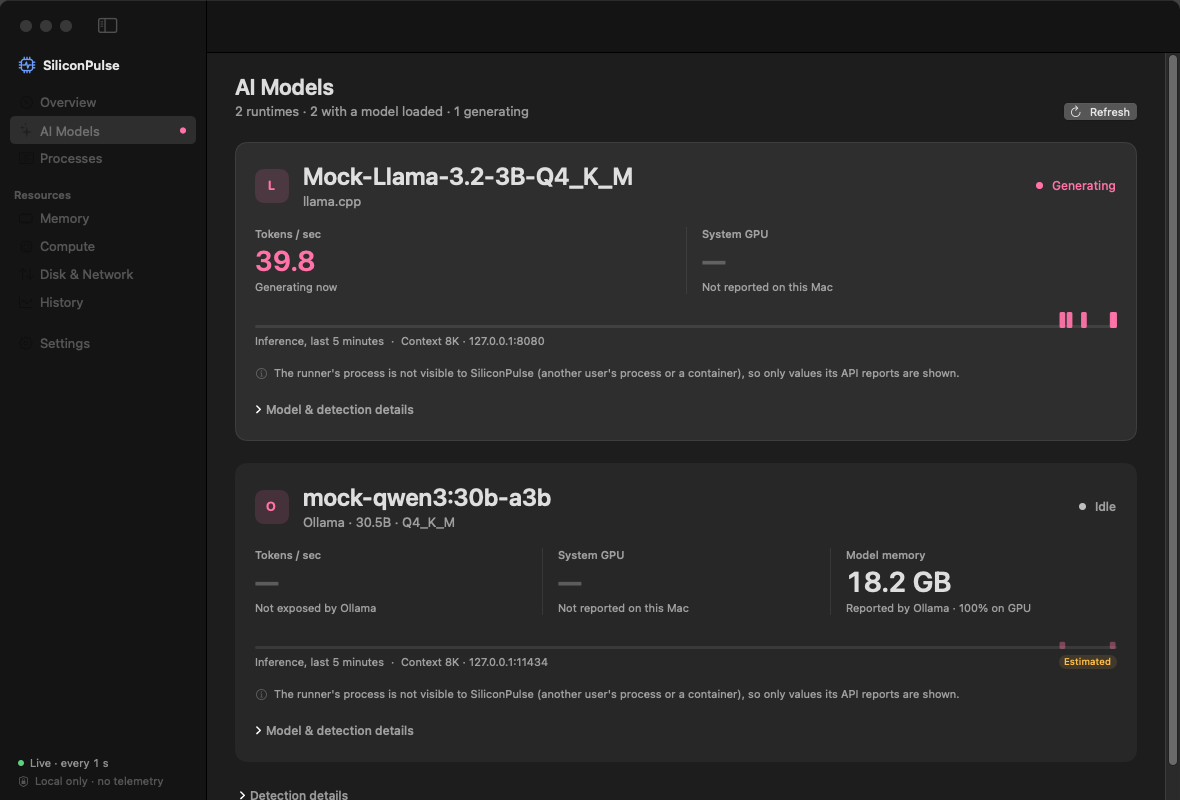
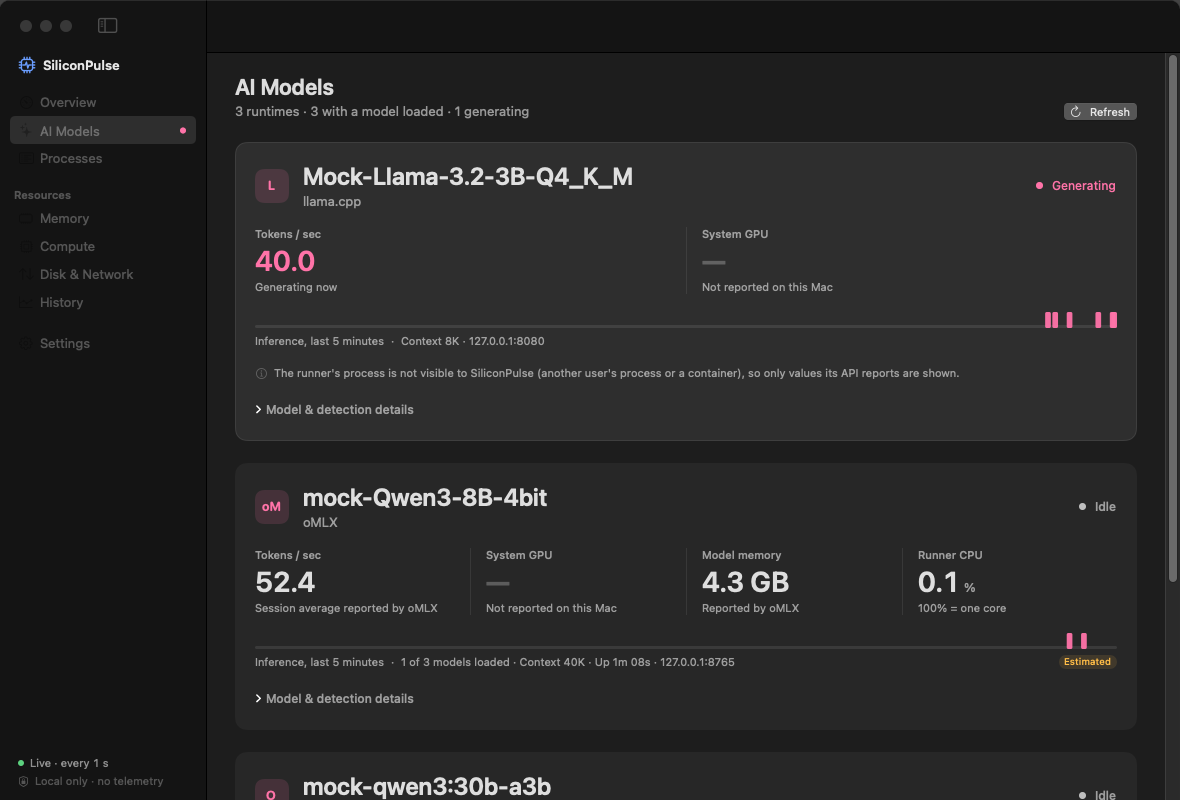
Final screenshots (CI set plus a real oMLX model) and current performance figures
Claude-Session: https://claude.ai/code/session_01B77xSdTJWkXV5KamHQjpPu

diff --git a/README.md b/README.md
@@ -37,6 +37,12 @@ CI also runs a **real** Ollama and a **real** oMLX serving a real small model (Q
 | **Processes** | **Disk & Network** |
 | ![Processes](docs/screenshots/processes-light.png) | ![Disk & Network](docs/screenshots/diskNetwork-dark.png) |
 
+With a **real oMLX server** serving `Qwen2.5-0.5B-Instruct-4bit` (CI `real-runner` job, same virtual Mac):
+
+| Overview | Menu bar item, clicked |
+|---|---|
+| ![Overview with a real oMLX model](docs/screenshots/real-runner/omlx-overview-dark.png) | ![Menu bar popover with a real oMLX model](docs/screenshots/real-runner/omlx-menubar-clicked-dark.png) |
+
 Every screen is captured in both appearances, plus Overview at the minimum (920 pt) and a large (1600 pt) window size: see [`docs/screenshots/`](docs/screenshots). Regenerate them with `build/SiliconPulse.app/Contents/MacOS/SiliconPulse --screenshots <dir>`.
 
 ## Features
@@ -140,15 +146,17 @@ See [docs/METRICS.md](docs/METRICS.md) for every metric's collection method, acc
 
 ## Measured performance
 
-Every CI run builds the release app and drives it through a scripted session (`--profile`): dashboard visible, every screen, the window closed, ten rapid open/close cycles, then an 8-minute soak. SiliconPulse's own CPU time and footprint come from the kernel's accounting for the process (`getrusage`, `task_info` `phys_footprint`), cross-checked with `ps`. Ranges below span the last three CI runs (`profile` artifact):
+Every CI run builds the release app and drives it through a scripted session (`--profile`): dashboard visible, every screen, the window closed, ten rapid open/close cycles, then an 8-minute soak. SiliconPulse's own CPU time and footprint come from the kernel's accounting for the process (`getrusage`, `task_info` `phys_footprint`), cross-checked with `ps`. Ranges below span the last two CI runs (`profile` artifact):
 
 | State | Average CPU (% of one core) | Footprint |
 |---|---|---|
-| Window closed, menu bar only (soak, 4 × 1 min) | 0.21–0.69% | 67.0–71.1 MB, flat |
-| Overview visible, 1 s sampling (soak, 4 × 1 min) | 2.9–4.8% | 67.2–71.1 MB, flat |
-| AI Models visible | 1.6–2.5% | ≈ 62 MB |
-| Processes visible (≈ 500-row table) | 10.8–15.4% (15.4% was a single outlier) | ≈ 71–75 MB |
-| 10 × open/close of the main window | 20–22% during the cycling | +2–5 MB, then stable |
+| Window closed, menu bar only (soak, 4 × 1 min) | 0.45–0.86% | 70.0–74.9 MB, flat |
+| Overview visible, 1 s sampling (soak, 4 × 1 min) | 3.2–5.3% | 70.1–74.9 MB, flat |
+| AI Models visible (three runtimes) | 2.4–5.1% | ≈ 68 MB |
+| Processes visible (≈ 500-row table) | 7.2–11.0% | ≈ 72–78 MB |
+| 10 × open/close of the main window | 16–20% during the cycling | +5–7 MB, then stable |
+
+These runs watch three mock runtimes (oMLX, Ollama, llama-server) instead of two, and the same unchanged collectors measured up to 35% slower in one run than the other, so the virtual Mac's speed alone moves these figures by about that much.
 
 The sampling loop count stays at exactly 1 throughout, including the open/close cycles. Collector costs, in thread CPU per run: CPU 0.1 ms, memory 0.05 ms, GPU 0.3 ms, disk 0.3 ms, network 0.15 ms, process table (≈ 500 processes) 2.4–3.2 ms, per-process GPU accounting 1.3–1.8 ms, AI candidate inspection 0.3 ms (plus localhost API calls, run off the main thread every 5–10 s).
 
